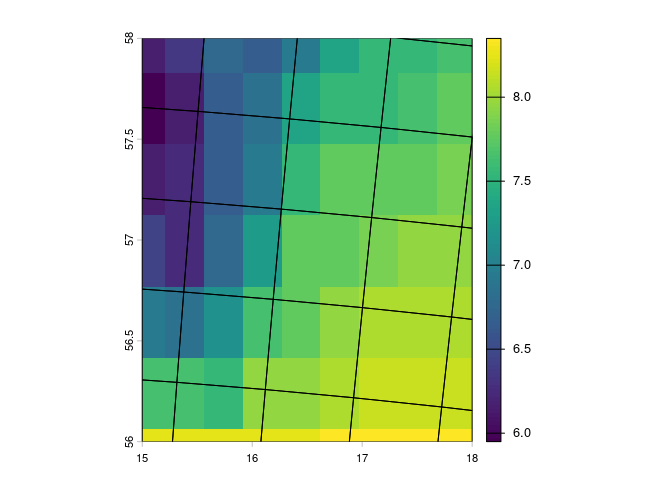
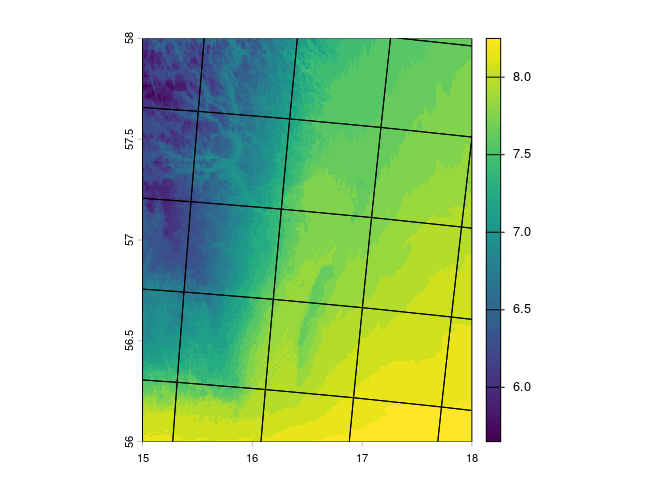
plot raster with maxcells

Changed region(s): [[0.1875, 0.0625, 0.8125, 0.9062], [0.7812, 0.3125, 0.8125, 0.3438], [0.1875, 0.9375, 0.2188, 0.9688]]

diff --git a/README.md b/README.md
@@ -29,7 +29,7 @@ and saved in the destination folder:
 library(regridR)
 
 library(terra)
-#> terra 1.9.1
+#> terra 1.9.13
 
 
 # DOWNLOAD SOME VARIABLES ----
@@ -79,7 +79,8 @@ We can project the vector grid to overlay a part of the climate layers,
 and see that they don’t align (and the pixels are not equal-area):
 
 ``` r
-terra::plot(layers[[1]], ext = terra::ext(15, 18, 56, 58))
+terra::plot(layers[[1]], ext = terra::ext(15, 18, 56, 58), 
+            maxcell = ncell(layers))
 
 terra::plot(terra::project(eea50, layers), add = TRUE)
 ```
